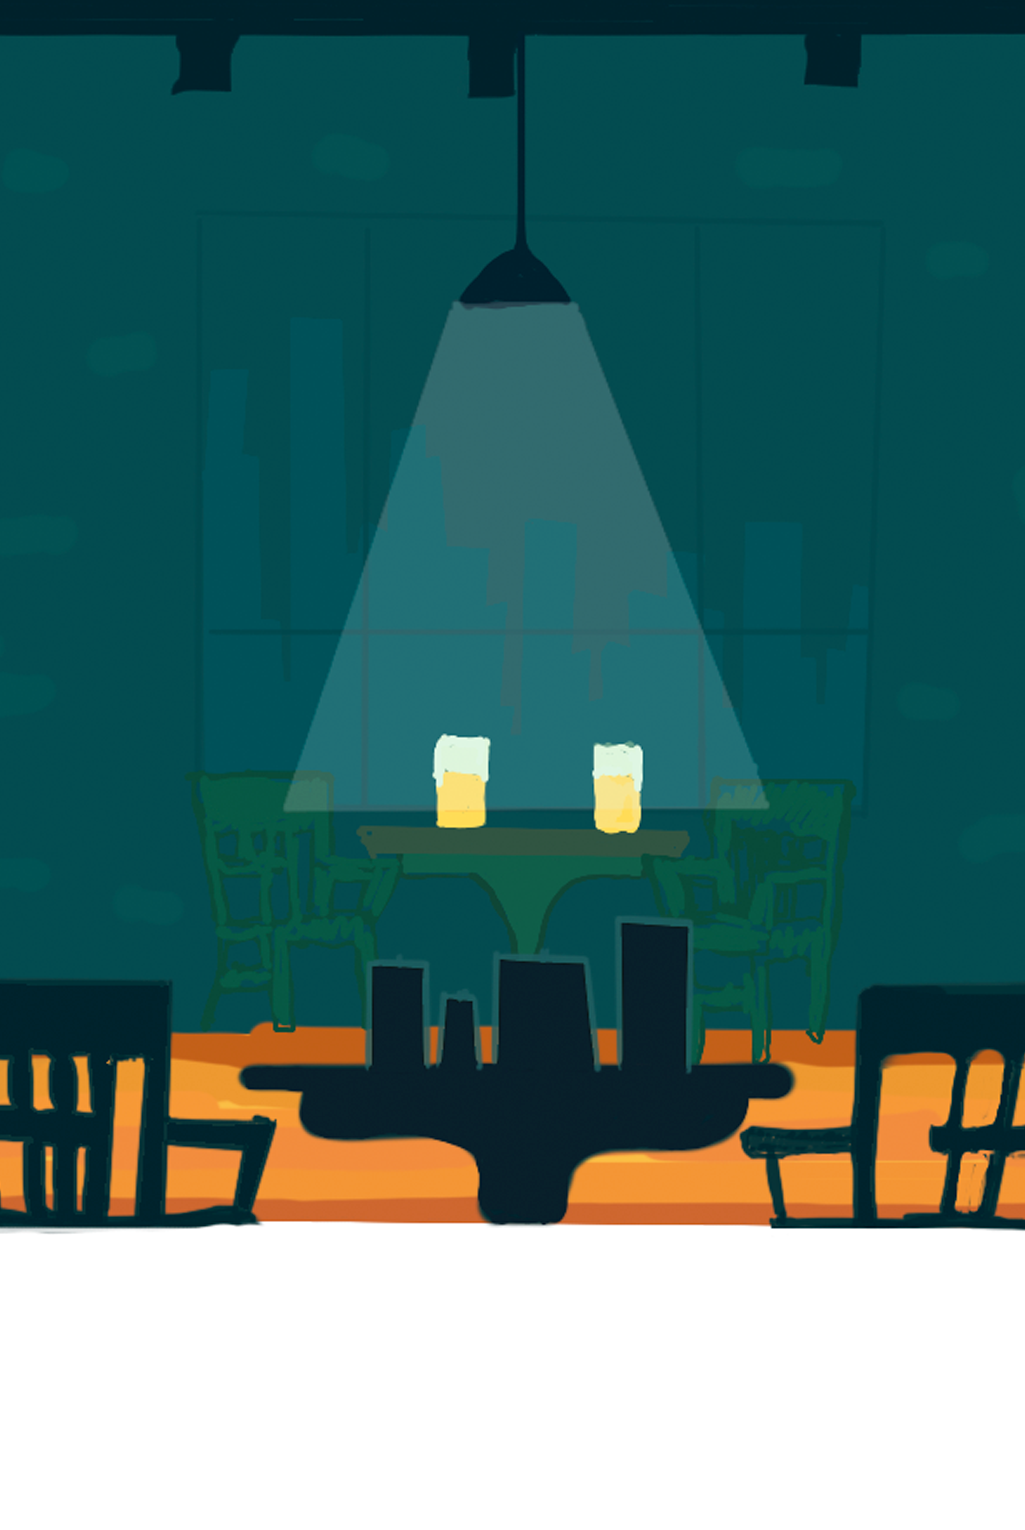
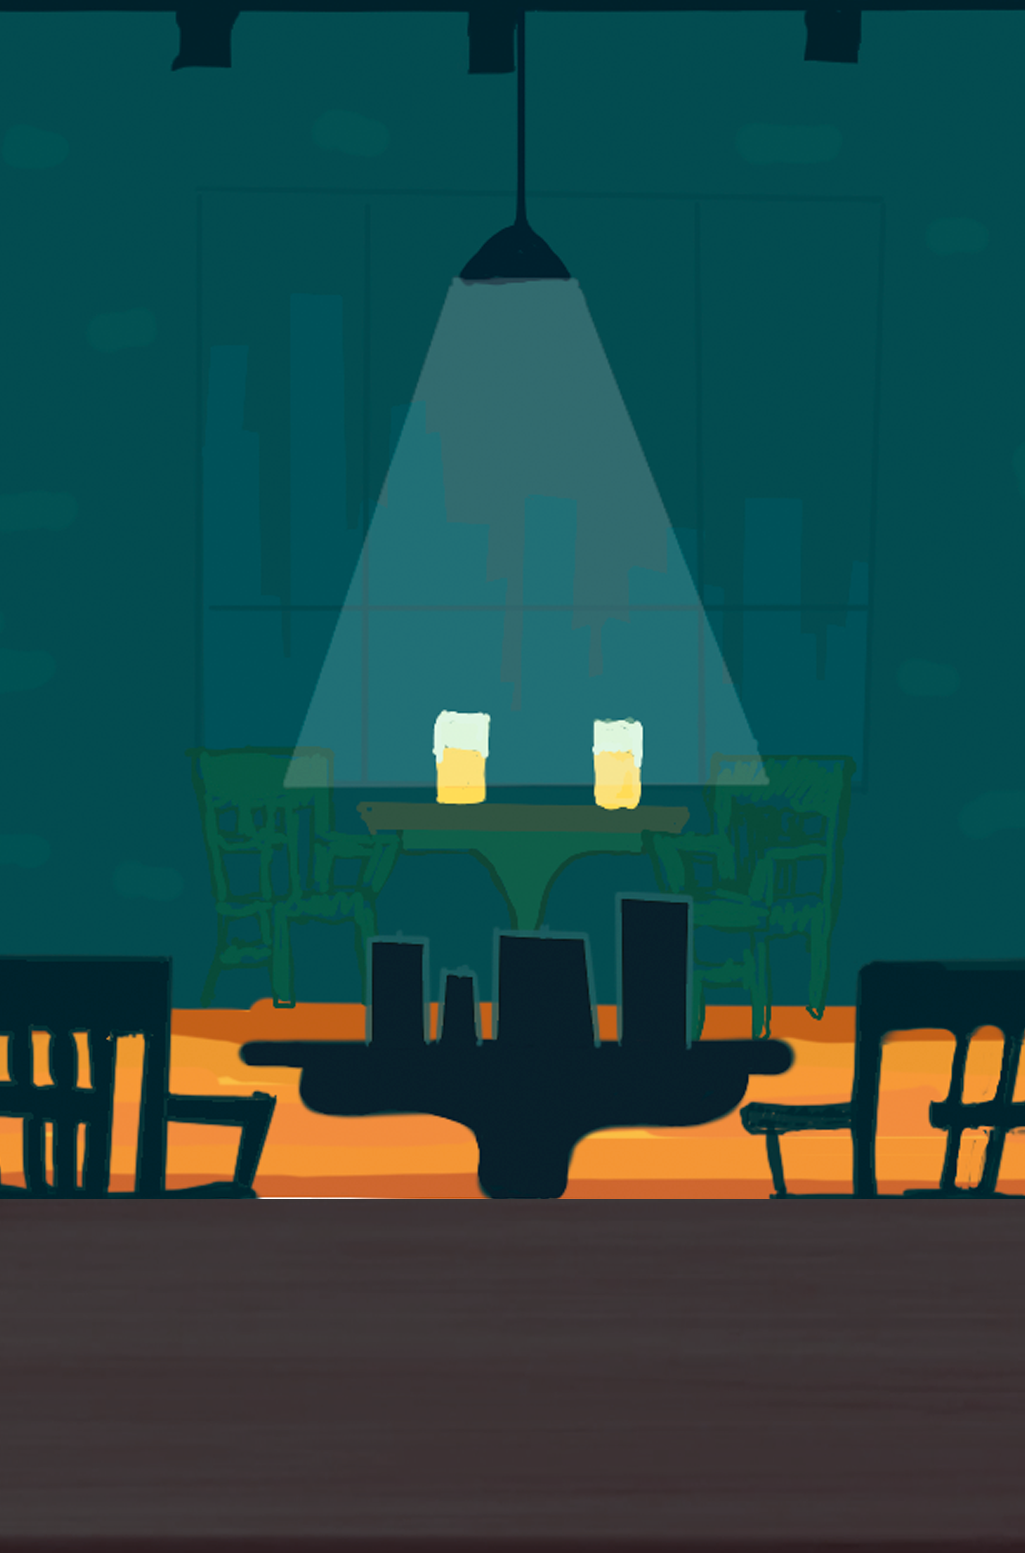
add table

diff --git a/src/MainScene.js b/src/MainScene.js
@@ -58,7 +58,7 @@ export class MainScene extends Phaser.Scene
         this.sndBg.play();
         
         
-        this.background = this.add.sprite(this.game.config.width / 2, 500, 'background');
+        this.background = this.add.sprite(this.game.config.width / 2, 520, 'background');
         this.objGames.forEach(e=>{
             if (e.create !== undefined){
                 e.create();
